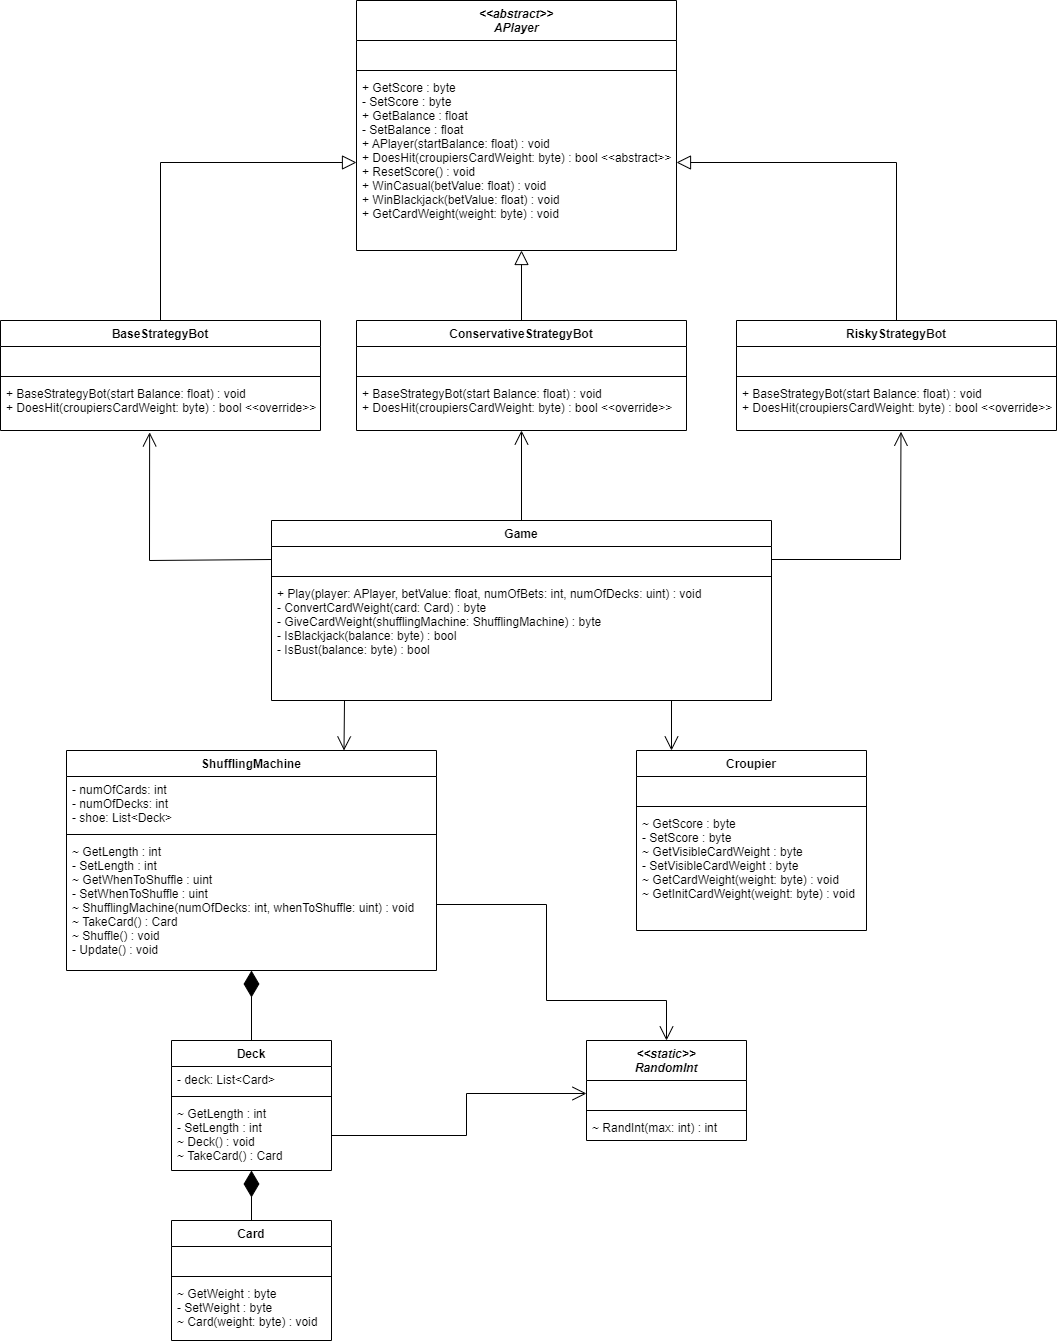
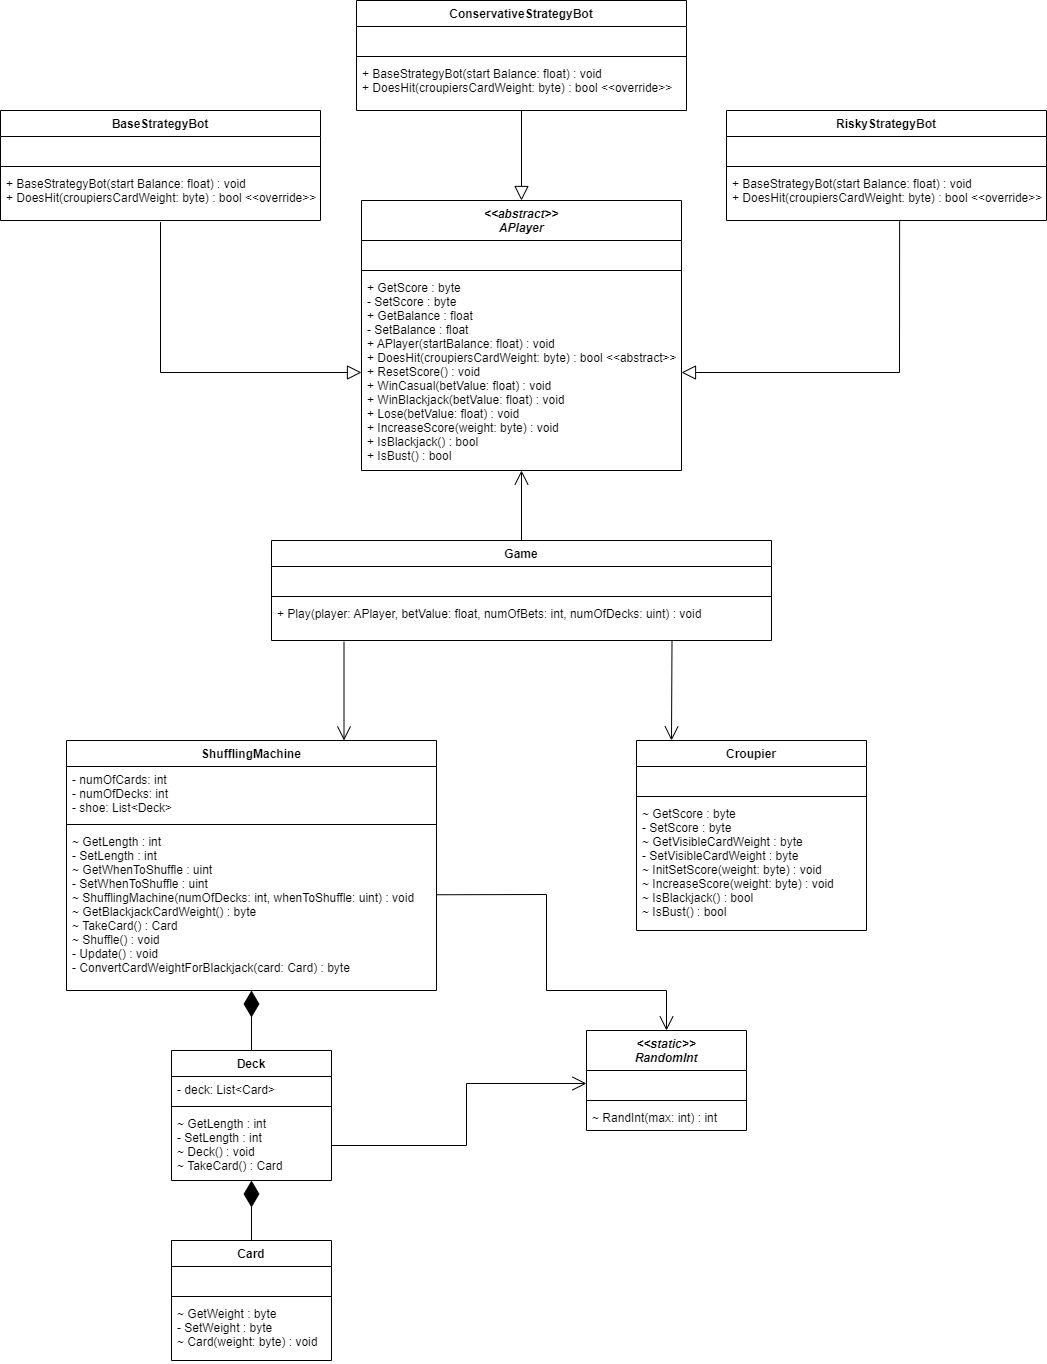
Task 2.1: 1)GetCardWeight and GetInitCardWeight methods were renamed to IncreaseScore and InitSetScore and tranformed to APlayer and croupier methods. 2)ConvertCardWeight and similar methods were moved to ShufflingMachine class and renamed to GetBlackjackCardWeight and so on. 3)IsBlackjack and IsBus

diff --git a/Zabelin Alexandr/Term 2/Block 2/PrimitiveBotsTask/Blackjack/Game.cs b/Zabelin Alexandr/Term 2/Block 2/PrimitiveBotsTask/Blackjack/Game.cs
@@ -19,32 +19,32 @@ namespace Blackjack
                 shufMachine.Shuffle();
                 player.ResetScore();
 
-                croupier.GetInitCardWeight(GiveCardWeight(shufMachine));
-                croupier.GetCardWeight(GiveCardWeight(shufMachine));
+                croupier.InitSetScore(shufMachine.GetBlackjackCardWeight());
+                croupier.IncreaseScore(shufMachine.GetBlackjackCardWeight());
 
-                if (IsBlackjack(croupier.Score))
+                if (croupier.IsBlackjack())
                 {
                     player.Lose(betValue);
 
                     continue;
                 }
 
-                player.GetCardWeight(GiveCardWeight(shufMachine));
-                player.GetCardWeight(GiveCardWeight(shufMachine));
+                player.IncreaseScore(shufMachine.GetBlackjackCardWeight());
+                player.IncreaseScore(shufMachine.GetBlackjackCardWeight());
 
-                if (IsBlackjack(player.Score))
+                if (player.IsBlackjack())
                 {
                     player.WinBlackjack(betValue);
 
                     continue;
                 }
 
-                while (player.DoesHit(croupier.VisibleCardWeight) && player.Score < 22)
+                while (player.DoesHit(croupier.VisibleCardWeight) && !player.IsBust())
                 {
-                    player.GetCardWeight(GiveCardWeight(shufMachine));
+                    player.IncreaseScore(shufMachine.GetBlackjackCardWeight());
                 }
 
-                if (IsBust(player.Score))
+                if (player.IsBust())
                 {
                     player.Lose(betValue);
 
@@ -53,10 +53,10 @@ namespace Blackjack
 
                 while (croupier.Score < 17)
                 {
-                    croupier.GetCardWeight(GiveCardWeight(shufMachine));
+                    croupier.IncreaseScore(shufMachine.GetBlackjackCardWeight());
                 }
 
-                if (IsBust(croupier.Score))
+                if (croupier.IsBust())
                 {
                     player.WinCasual(betValue);
 
@@ -73,32 +73,5 @@ namespace Blackjack
                 }
             }
         }
-
-        private byte ConvertCardWeight(Card card)
-        {
-            byte weight = card.Weight;
-
-            if (weight < 11)
-            {
-                return weight;
-            }
-            else if (weight < 14)
-            {
-                return 10;
-            }
-            else
-            {
-                return 11;
-            }
-        }
-
-        private byte GiveCardWeight(ShufflingMachine sm)
-        {
-            return ConvertCardWeight(sm.TakeCard());
-        }
-
-        private bool IsBlackjack(byte balance) => balance == 21;
-
-        private bool IsBust(byte balance) => balance > 21;
     }
 }

diff --git a/Zabelin Alexandr/Term 2/Block 2/PrimitiveBotsTask/Blackjack/ShufflingMachine.cs b/Zabelin Alexandr/Term 2/Block 2/PrimitiveBotsTask/Blackjack/ShufflingMachine.cs
@@ -33,6 +33,11 @@ namespace Blackjack
             Update();
         }
 
+        internal byte GetBlackjackCardWeight()
+        {
+            return ConvertCardWeightForBlackjack(TakeCard());
+        }
+
         internal Card TakeCard()
         {
             int index = RandomInt.RandInt(this.Length);
@@ -66,6 +71,24 @@ namespace Blackjack
             for (int i = 0; i < this.Length; i++)
             {
                 this.shoe.Add(new Deck());
+            }
+        }
+
+        private byte ConvertCardWeightForBlackjack(Card card)
+        {
+            byte weight = card.Weight;
+
+            if (weight < 11)
+            {
+                return weight;
+            }
+            else if (weight < 14)
+            {
+                return 10;
+            }
+            else
+            {
+                return 11;
             }
         }
     }

diff --git a/Zabelin Alexandr/Term 2/Block 2/PrimitiveBotsTask/Blackjack/Croupier.cs b/Zabelin Alexandr/Term 2/Block 2/PrimitiveBotsTask/Blackjack/Croupier.cs
@@ -7,7 +7,7 @@ namespace Blackjack
         internal byte Score { get; private set; }
         internal byte VisibleCardWeight { get; private set; }
 
-        internal void GetCardWeight(byte weight)
+        internal void IncreaseScore(byte weight)
         {
             if (weight == 11 && this.Score > 10)
             {
@@ -19,10 +19,14 @@ namespace Blackjack
             }
         }
 
-        internal void GetInitCardWeight(byte weight)
+        internal void InitSetScore(byte weight)
         {
             this.Score = weight;
             this.VisibleCardWeight = weight;
         }
+
+        internal bool IsBlackjack() => this.Score == 21;
+
+        internal bool IsBust() => this.Score > 21;
     }
 }

diff --git a/Zabelin Alexandr/Term 2/Block 2/PrimitiveBotsTask/BlackjackBots/APlayer.cs b/Zabelin Alexandr/Term 2/Block 2/PrimitiveBotsTask/BlackjackBots/APlayer.cs
@@ -33,7 +33,7 @@
             this.Balance -= betValue;
         }
 
-        public void GetCardWeight(byte weight)
+        public void IncreaseScore(byte weight)
         {
             if (weight == 11 && this.Score > 10) 
             {
@@ -44,5 +44,8 @@
                 this.Score += weight;
             }
         }
+        public bool IsBlackjack() => this.Score == 21;
+
+        public bool IsBust() => this.Score > 21;
     }
 }

diff --git a/Zabelin Alexandr/Term 2/Block 2/PrimitiveBotsTask/Blackjack/RandomInt.cs b/Zabelin Alexandr/Term 2/Block 2/PrimitiveBotsTask/Blackjack/RandomInt.cs
@@ -6,7 +6,7 @@ namespace Blackjack
     {
         static internal int RandInt(int max)
         {
-            var random = new Random();
+            var random = new Random(DateTime.Now.Millisecond);
 
             return random.Next(max);
         }
